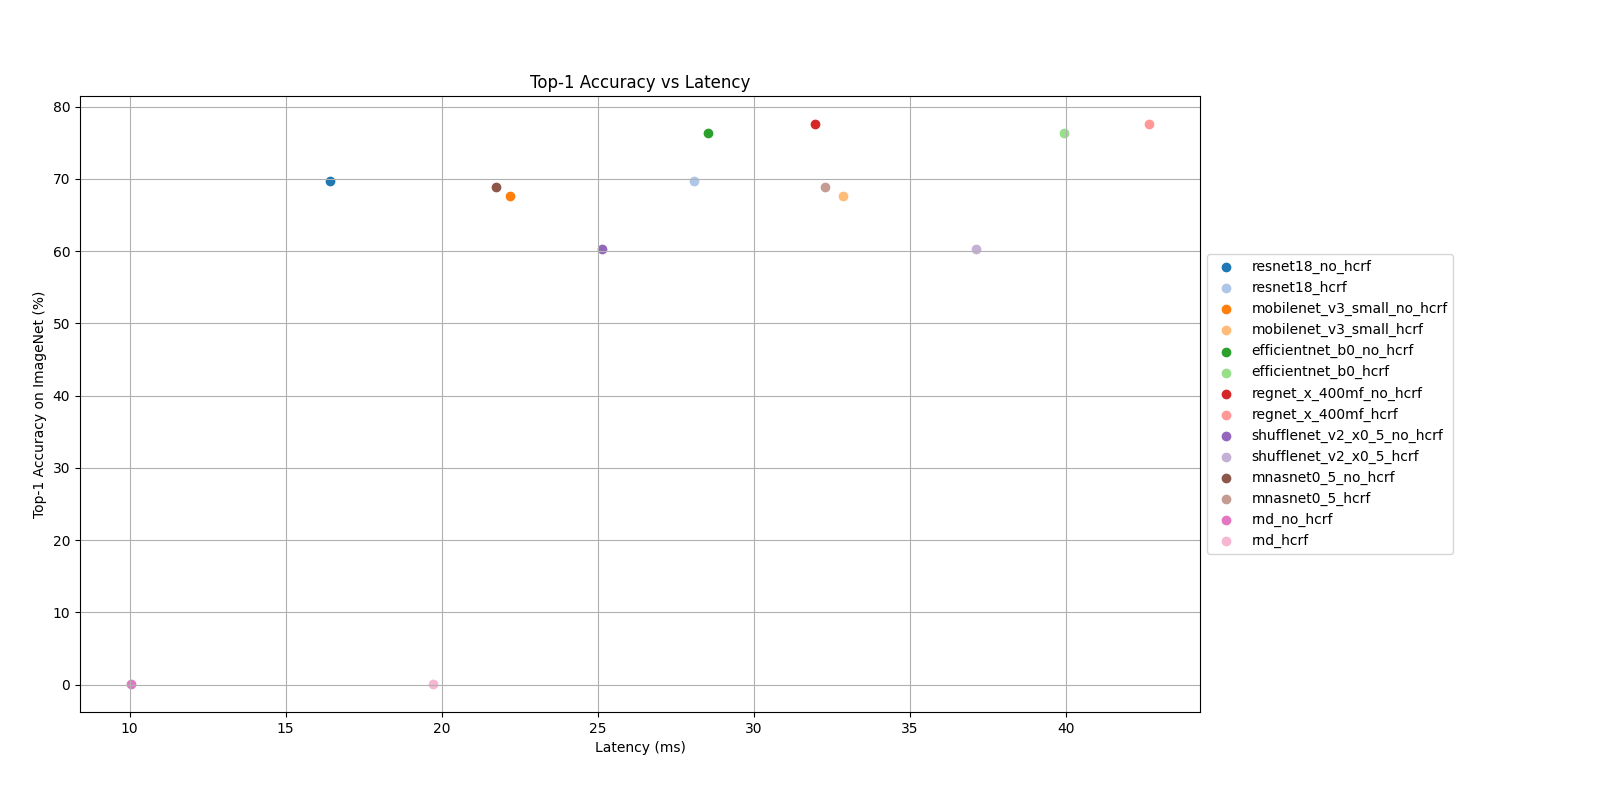
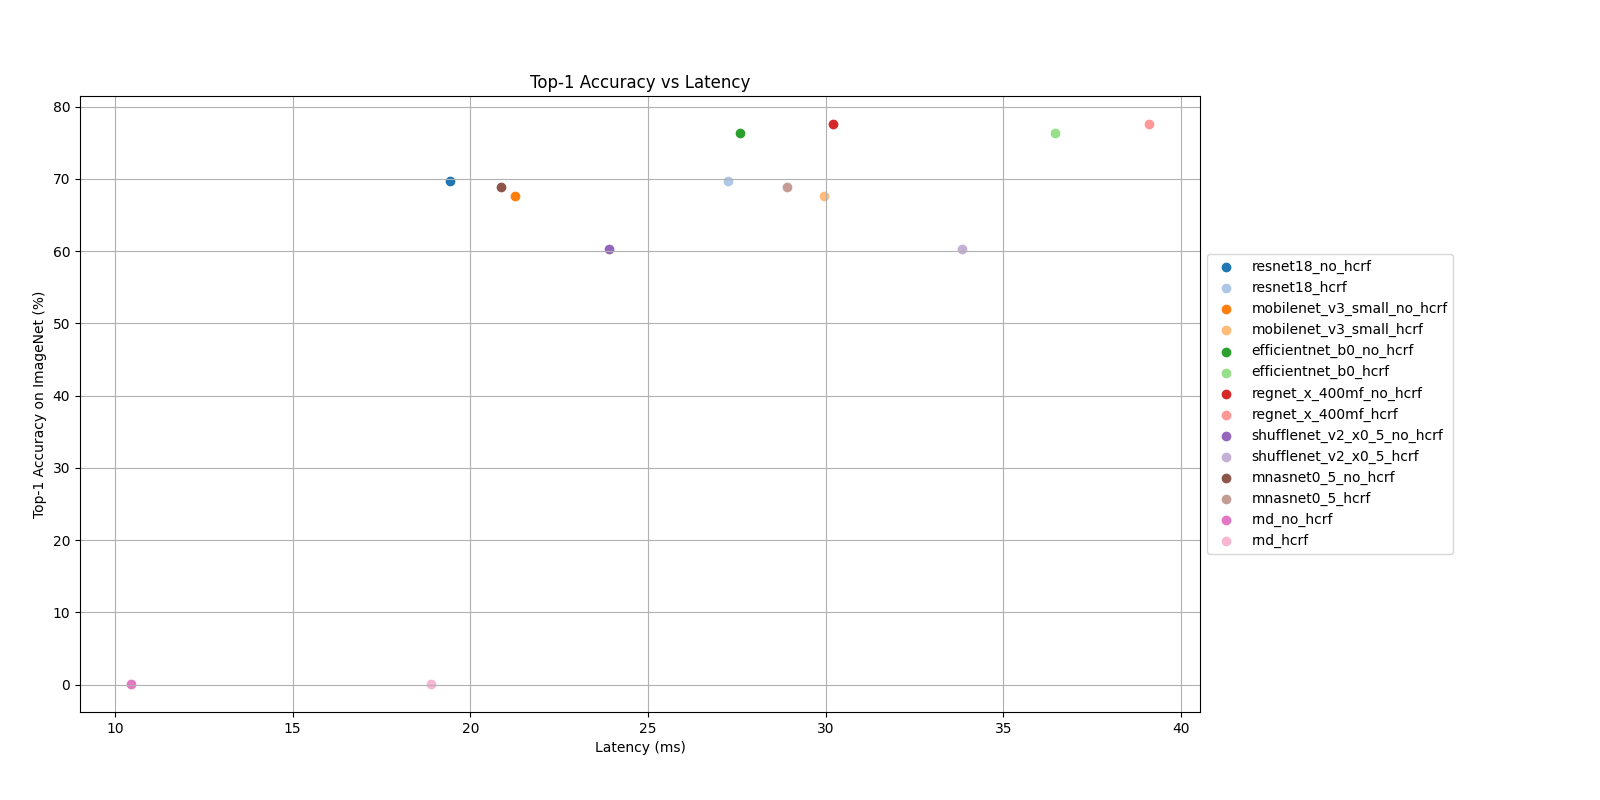
feat: updated resources statistics

diff --git a/scripts/resources/resources.py b/scripts/resources/resources.py
@@ -39,12 +39,14 @@ model_names = [
     for name in ([f"{backbone.value}_no_hcrf", f"{backbone.value}_hcrf"] if backbone is not None else ["rnd_no_hcrf", "rnd_hcrf"])
 ]
 
+hog_config = HOGConfig()
+
 model_variants = [
     MultiBranchArtistNetwork(
         num_classes=NUM_CLASSES,
         stn=backbone,
         use_handcrafted=handcrafted,
-        hog_params=HOGConfig()
+        hog_params=hog_config
     ).to(DEVICE)
     for backbone in BACKBONES
     for handcrafted in HANDCRAFTED_FLAGS
@@ -73,7 +75,7 @@ for (name, model) in models.items():
     
     num_params = sum(p.numel() for p in model.parameters())
     memory_size = num_params * 4
-    latency = compute_latency(model, dataset, DEVICE, DATASET_SIZE // 10)
+    latency = compute_latency(model, dataset, DEVICE, max(1, DATASET_SIZE // 10))
     fps = 1000 / latency
     
     model_stats[name] = {

diff --git a/src/trainer/train.py b/src/trainer/train.py
@@ -2,21 +2,20 @@ from dataclasses import dataclass
 import json
 import logging
 import os
-from statistics import mean
 import time
-from matplotlib import pyplot as plt
-import torch
-import torch.optim as optim
-import torch.nn as nn
-from torch.backends import cudnn
+from statistics import mean
 
+import torch
+import torch.nn as nn
+import torch.optim as optim
+from matplotlib import pyplot as plt
 from torch.utils.data import DataLoader
-from torchvision.transforms import Compose
 from torchvision import transforms
+from torchvision.transforms import Compose
 
 from ..config.config import Config
-from ..utils.utils import execution_time
 from ..model.network import MultiBranchArtistNetwork
+from ..utils.utils import execution_time
 from .metrics import Metrics
 
 @dataclass

diff --git a/src/trainer/__init__.py b/src/trainer/__init__.py
@@ -1,4 +1,4 @@
 import torch
 
-if torch.backends.cudnn.is_available():
-    torch.backends.cudnn.benchmark = True
+#if torch.backends.cudnn.is_available():
+torch.backends.cudnn.benchmark = True

diff --git a/results.md b/results.md
@@ -4,27 +4,27 @@
 
 | Backbone Model | HOG | Latency (ms) | FPS | Parameters (M) | Accuracy (%) (*) |
 |:-------:|:---------:|:---:|:-----:|:------------:|:---:|
-| Random crop | No | 9.5 | 105.5 | 27.4 | 0.1 (**)  |
-| Random crop | 81 | 17.5 | 57 | 27.4 | 0.1 (**) |
-| Random crop | 4056 | 19.5 | 51 | 28.05| 0.1 (**) |
-| ResNet18 | No | 16 | 62 | 48.75 |69.8 |
-| ResNet18 | 81 | 26 | 38.5 | 48.77 |69.8 |
-| ResNet18 | 4056 | 28 | 36 | 49.38 |69.8 |
+| Random crop | No | 10.4 | 96 | 27.4 | 0.1 (**)  |
+| Random crop | 81 | 15.7 | 64 | 27.4 | 0.1 (**) |
+| Random crop | 4056 | 18.9 | 53 | 28.05 | 0.1 (**) |
+| ResNet18 | No | 19.5 | 51 | 48.75 |69.8 |
+| ResNet18 | 81 | 24.7 | 40.4 | 48.77 |69.8 |
+| ResNet18 | 4056 | 27.2 | 36.7 | 49.38 |69.8 |
 | MobileNetV3-S | No | 21 | 47 | 30.3 |67.7 |
-| MobileNetV3-S | 81 | 30 | 33 | 30.3 |67.7 |
-| MobileNetV3-S | 4056 | 32 | 31 | 31 |67.7 |
-| EfficientNet-B0 | No | 28 | 36 | 35.1 |76.3 |
-| EfficientNet-B0 | 81 | 36 | 28 | 35.1 |76.3 |
-| EfficientNet-B0 | 4056 | 39.5 | 25.5 |35.7 |76.3 |
-| RegNetX-400MF | No | 32 | 31.5 | 37.15 |77.6 |
-| RegNetX-400MF | 81 | 39 | 25.5 | 37.16 |77.6 |
-| RegNetX-400MF | 4056 | 42.7 | 23.5 | 37.78 |77.6 |
-| ShuffleNetV2-X0.5 | No | 25 | 40 | 28.1 |60.3 |
-| ShuffleNetV2-X0.5 | 81 | 33 | 30.5 | 28.1 |60.3 |
-| ShuffleNetV2-X0.5 | 4056 | 37 | 27 | 28.7 |60.3 |
-| MNasNet-X0.5 | No | 21 | 47 | 29.2 |68.9 |
-| MNasNet-X0.5 | 81 | 29 | 34.5 | 29.2 |68.9 |
-| MNasNet-X0.5 | 4056 | 32 | 31 | 29.9 |68.9 |
+| MobileNetV3-S | 81 | 27.8 | 36 | 30.3 |67.7 |
+| MobileNetV3-S | 4056 | 30 | 33.4 | 31 |67.7 |
+| EfficientNet-B0 | No | 27.5 | 36.5 | 35.1 |76.3 |
+| EfficientNet-B0 | 81 | 33.8 | 29.6 | 35.1 |76.3 |
+| EfficientNet-B0 | 4056 | 36.4 | 27.5 |35.7 |76.3 |
+| RegNetX-400MF | No | 30 | 33.4 | 37.15 |77.6 |
+| RegNetX-400MF | 81 | 36.5 | 27.4 | 37.16 |77.6 |
+| RegNetX-400MF | 4056 | 39 | 25.6 | 37.78 |77.6 |
+| ShuffleNetV2-X0.5 | No | 23.7 | 42.5 | 28.1 |60.3 |
+| ShuffleNetV2-X0.5 | 81 | 30.5 | 33 | 28.1 |60.3 |
+| ShuffleNetV2-X0.5 | 4056 | 33.8 | 29.6 | 28.7 |60.3 |
+| MNasNet-X0.5 | No | 20.7 | 48.3 | 29.2 |68.9 |
+| MNasNet-X0.5 | 81 | 26.5 | 37.7 | 29.2 |68.9 |
+| MNasNet-X0.5 | 4056 | 29 | 34.5 | 29.9 |68.9 |
 
 
 (*) Top-1 accuracy of the backbone model alone, as measured on ImageNet  
